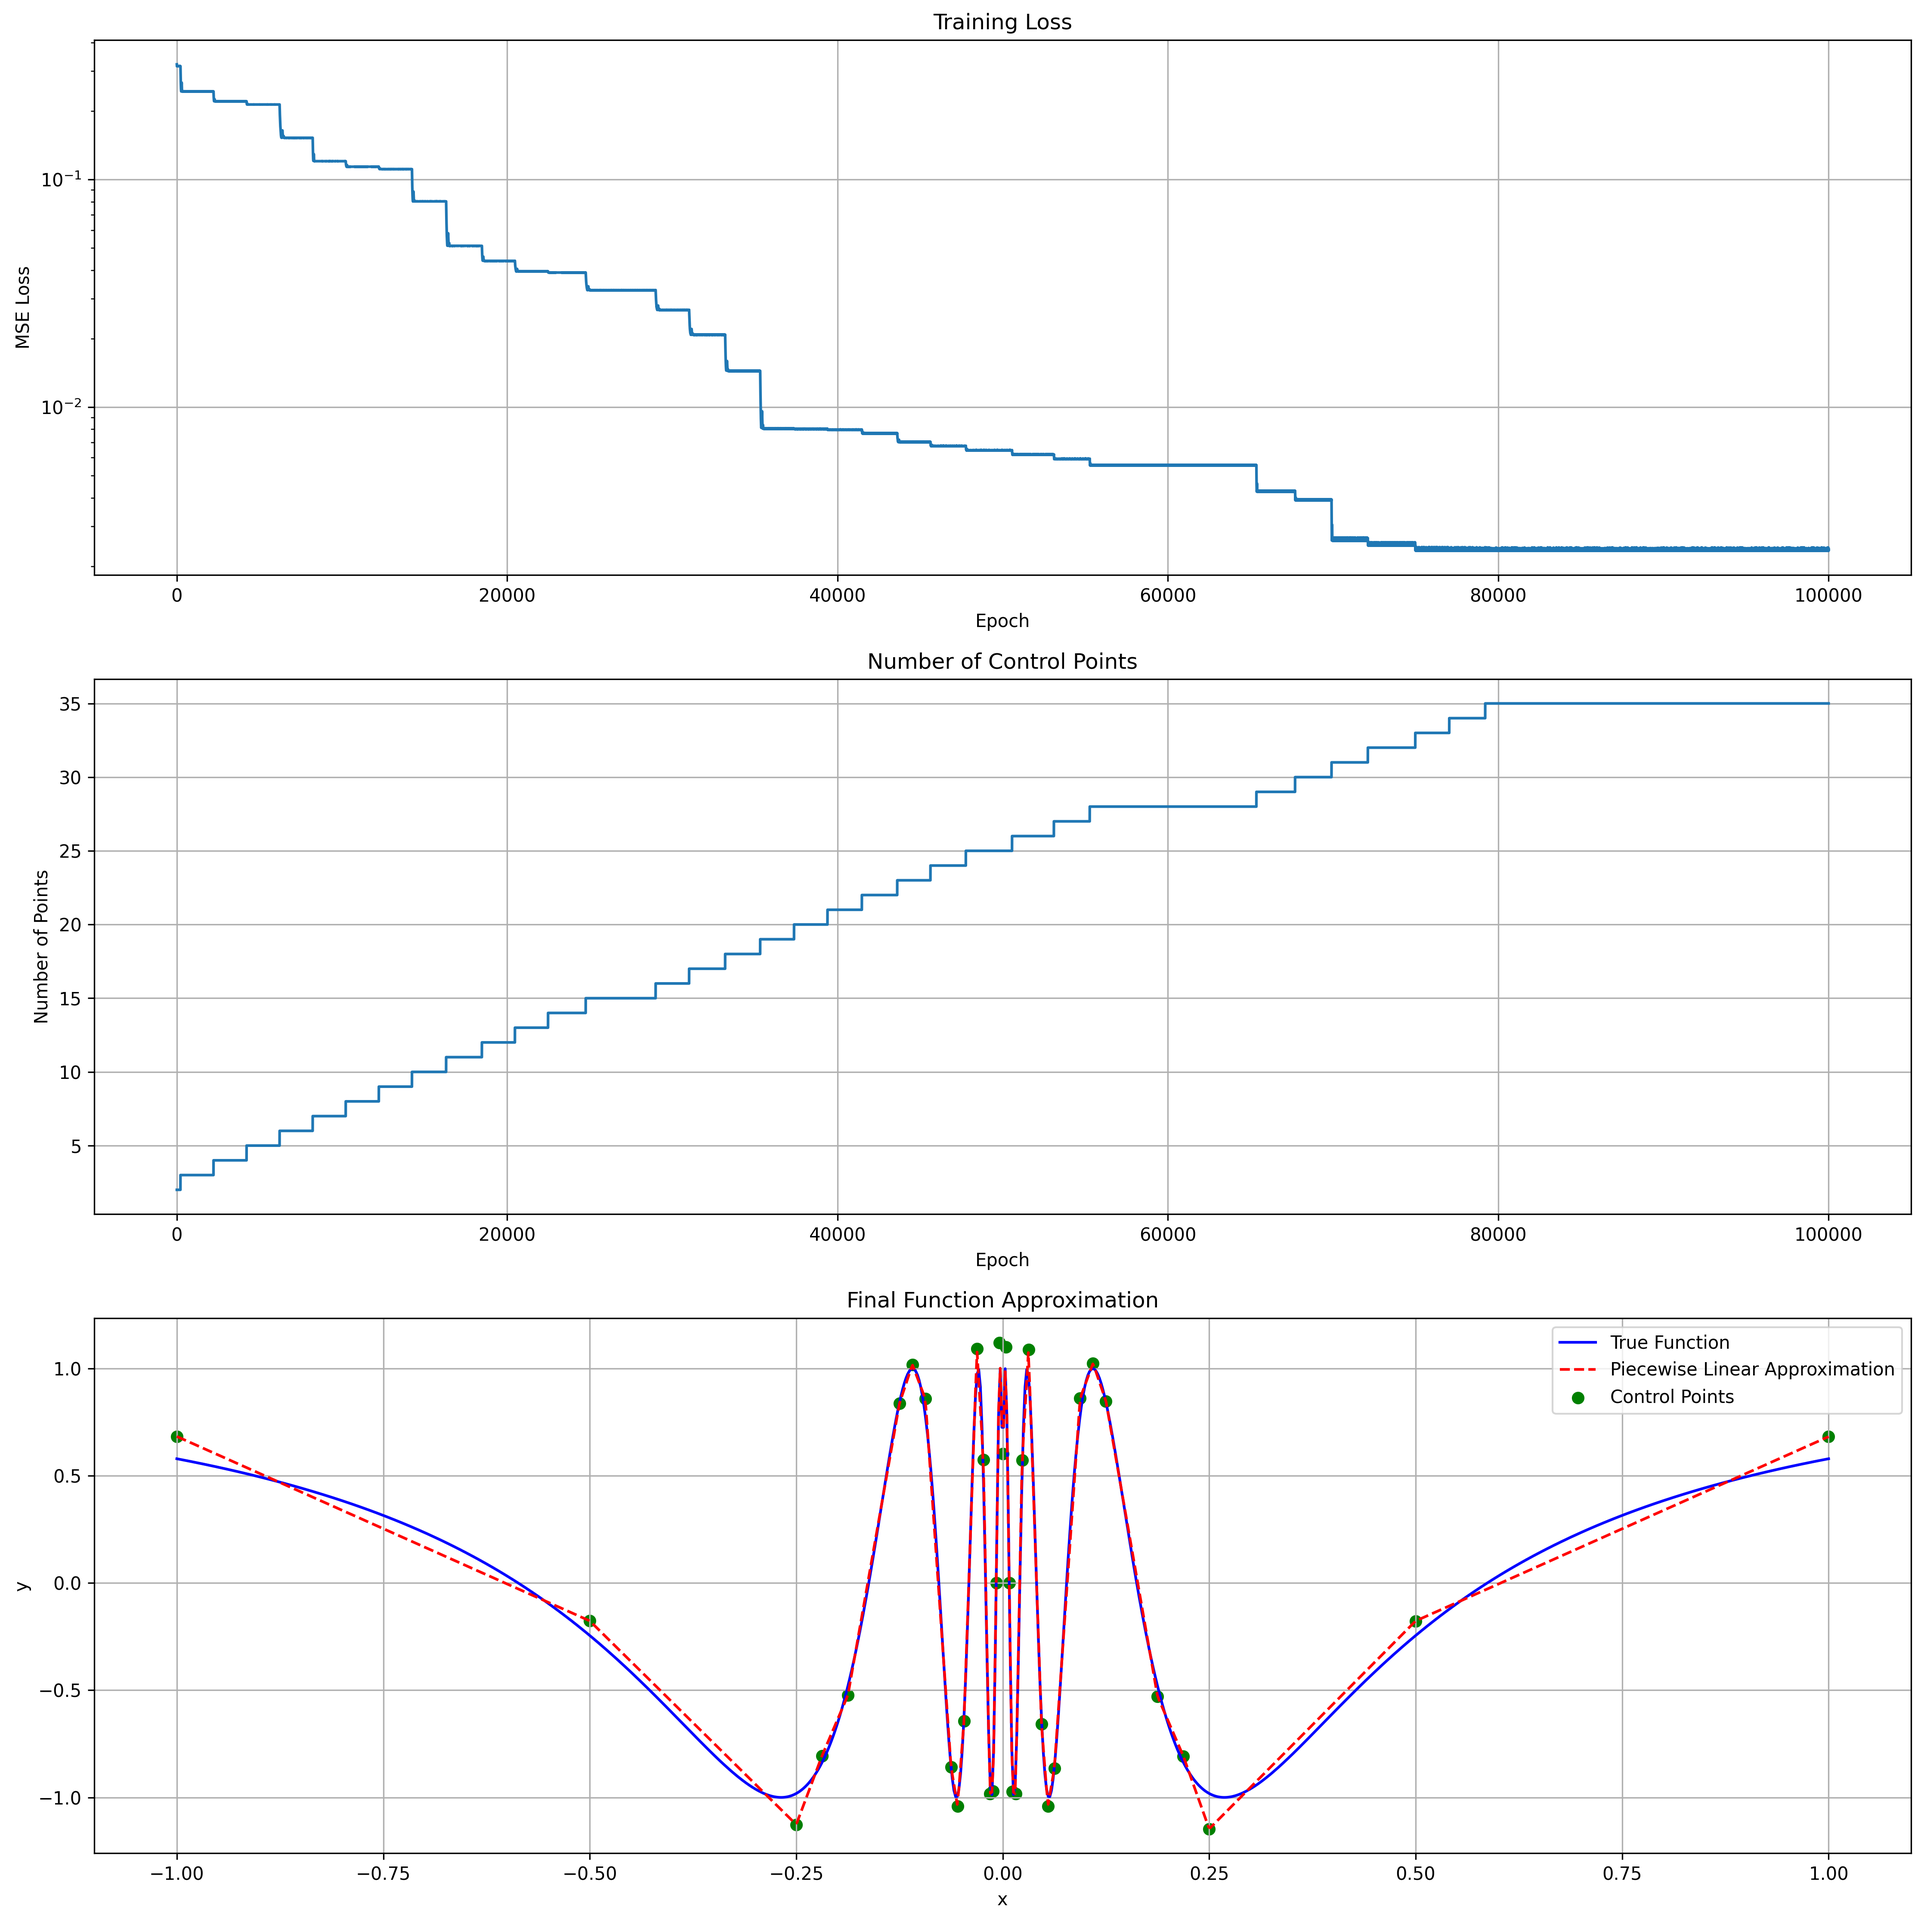
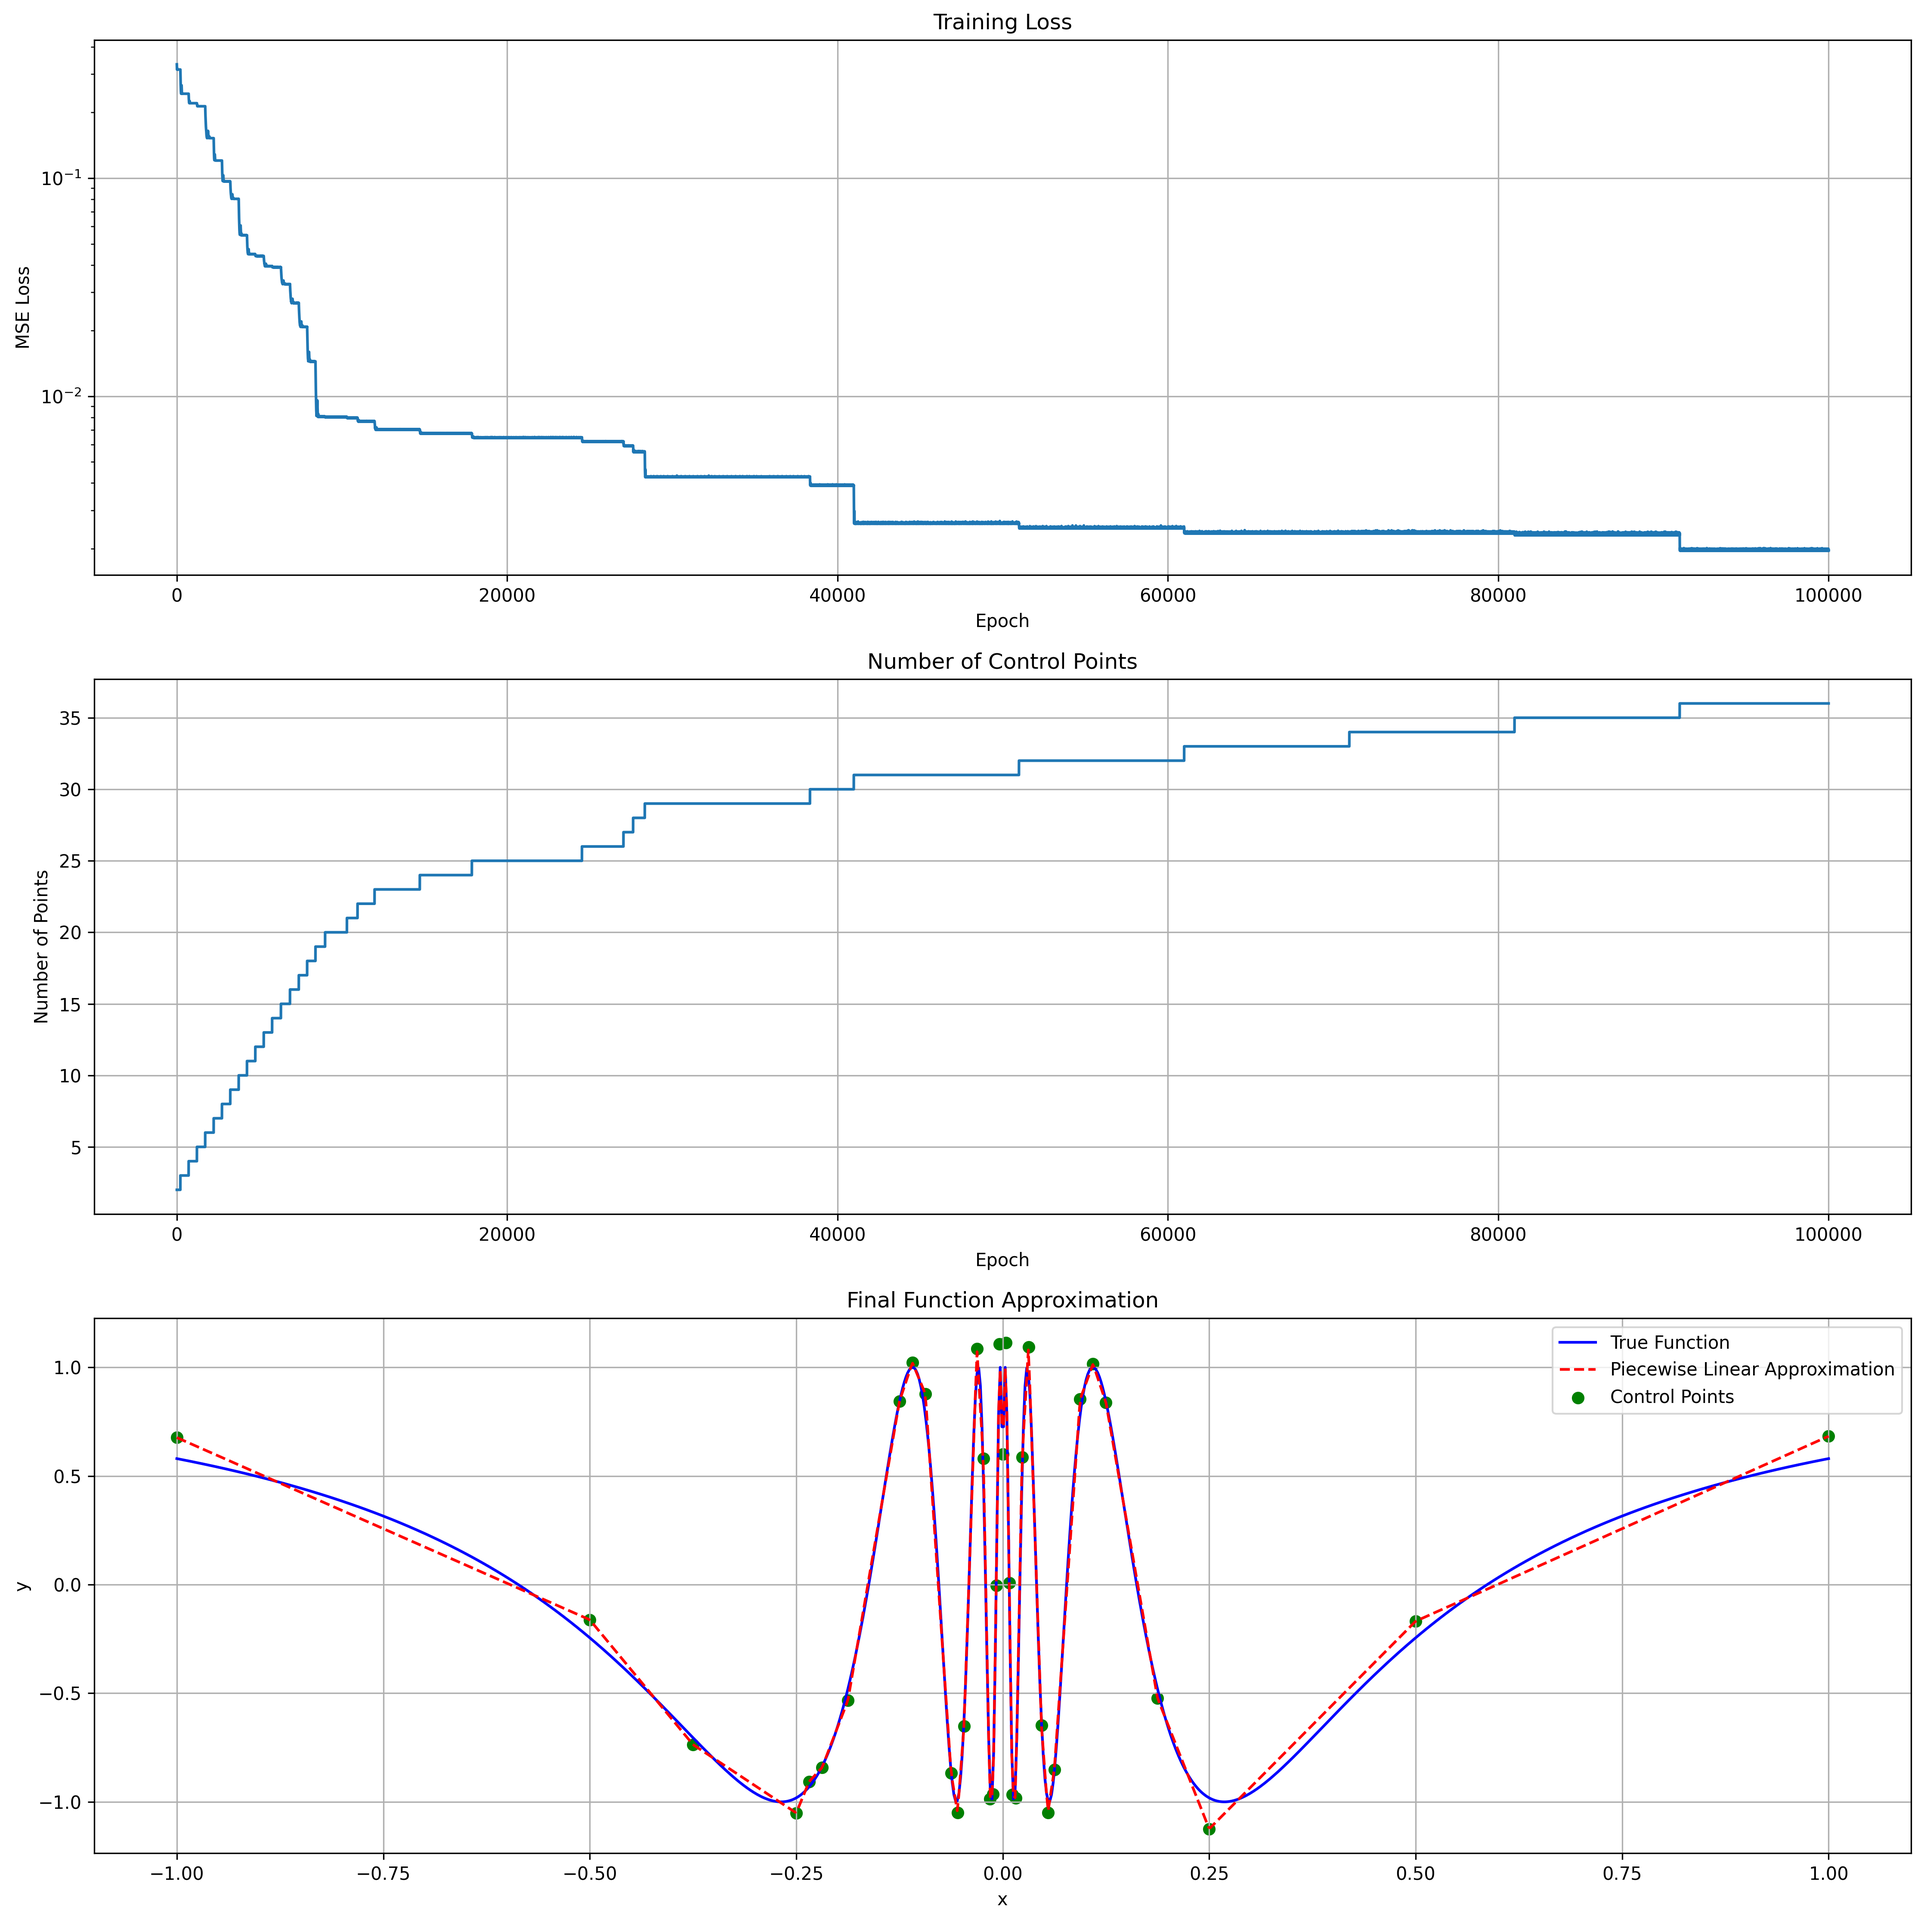
Improve sine result

diff --git a/examples/sine_fitting.py b/examples/sine_fitting.py
@@ -108,8 +108,8 @@ def generate_optimizer(parameters) :
 # Training parameters
 initial_points = 2  # Number of points in piecewise function
 max_points = 50    # Maximum number of points to add
-min_epochs_between_points = 2000  # Minimum epochs to wait between adding points
-max_epochs_between_points = 100000
+min_epochs_between_points = 500  # Minimum epochs to wait between adding points
+max_epochs_between_points = 10000
 plateau_window = 200  # Window size to check for loss plateau
 plateau_threshold = 0.0001  # Relative improvement threshold to detect plateau
 model = SineApproximator(initial_points)
